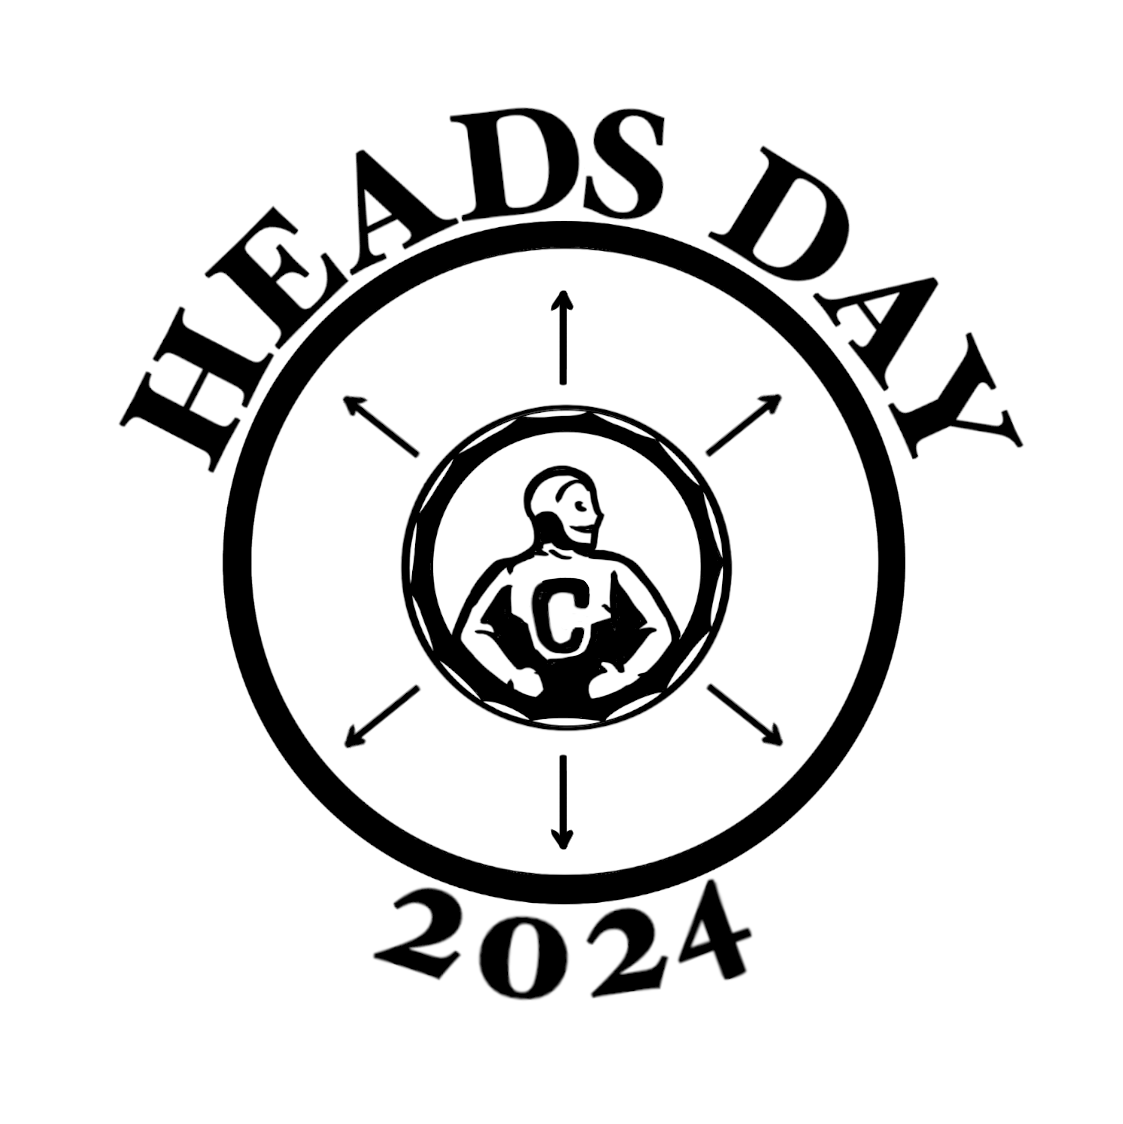
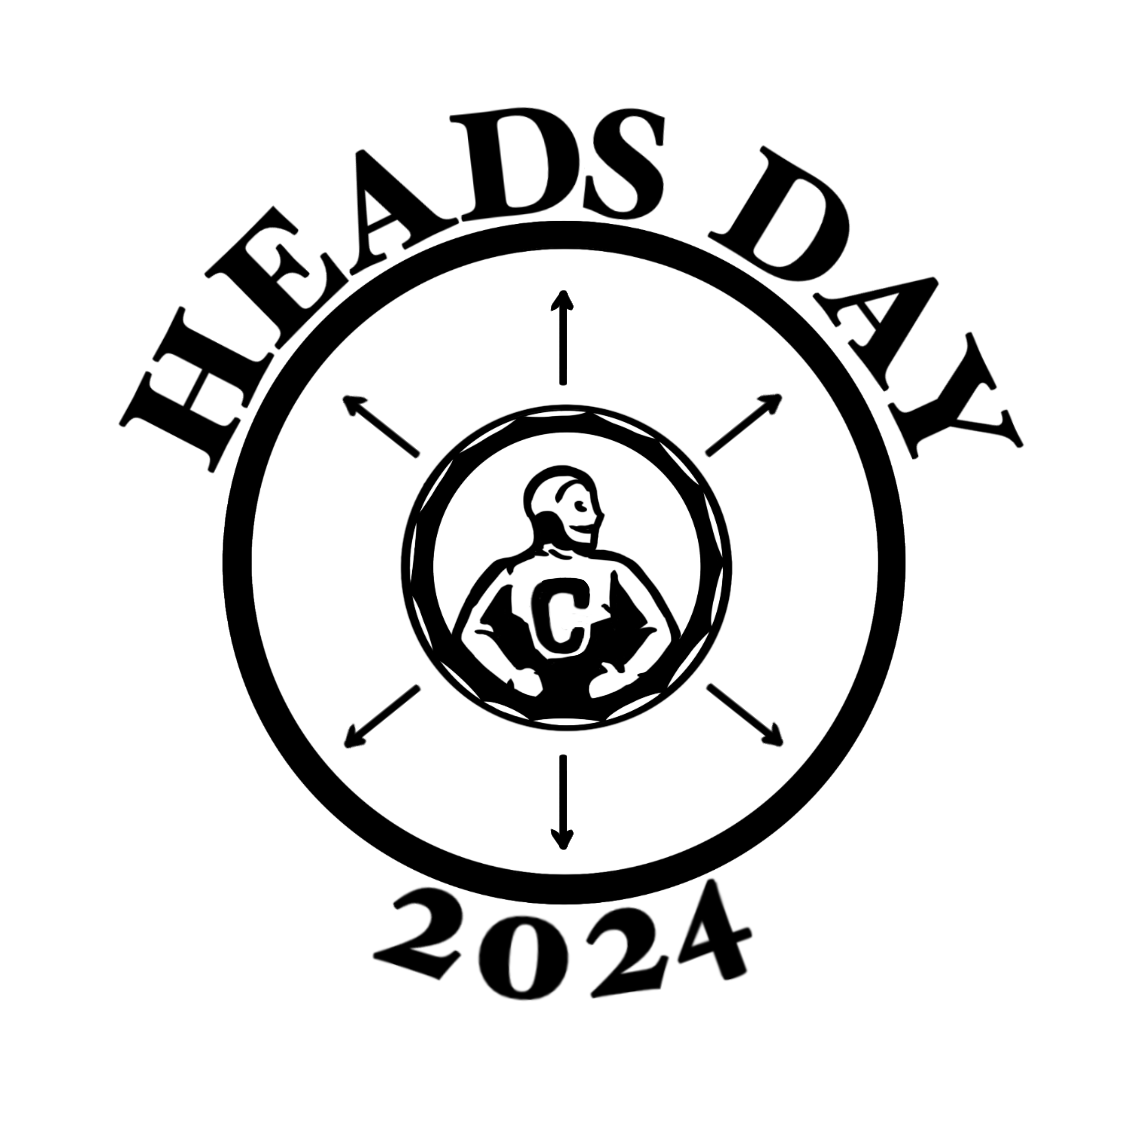
Reports (#124)
* Finished programmable reports

* fixed lint issue

* added link to reports

* Added qr code logo

diff --git a/engfrosh_site/management/templates/reports.html b/engfrosh_site/management/templates/reports.html
@@ -1,0 +1,91 @@
+{% extends "base_manage_subpage.html" %}
+{% load static %}
+{% block page_title %}
+    Programmable Reports
+{% endblock page_title %}
+{% block top_title %}
+    Programmable Reports
+{% endblock top_title %}
+{% block active %}
+    <div class="text-white">
+    <table id="table">
+        {% if data is None %}
+            <tr>
+                <td class="px-2">Target</td>
+                <td class="px-2">Value</td>
+                <td class="px-2">Operator</td>
+                <td class="px-2"><button onclick="add()">Add</button></td>
+                <td class="px-2"><button onclick="send()">View HTML</button></td>
+            </tr>
+            <tr id="input">
+                <td class="px-2">
+                    <select id="target">
+                        {% for param in params %}
+                            <option value="{{ param }}">{{ param }}</option>
+                        {% endfor %}
+                    </select>
+                </td>
+                <td class="px-2">
+                    <input type="text" id="value">
+                </td>
+                <td class="px-2">
+                    <select id="operator">
+                        <option value="=">Equals</option>
+                        <option value="!=">Does Not Equal</option>
+                    </select>
+                </td>
+            </tr>
+            <form id="hiddenform" method="POST">
+                {% csrf_token %}
+                <input type="hidden" id="query" name="query">
+            </form>
+        {% else %}
+        <tr>
+            <form method="POST">
+                {% csrf_token %}
+                <input type="hidden" name="query" value="{{ query }}"></input>
+                <input type="submit" value="Download CSV"></input>
+            </form>
+            <td>
+                <p>Results found: {{ length }}</p>
+            </td>
+        </tr>
+        {% for d1 in data %}
+            <tr>
+                {% for d2 in d1 %}
+                    <td class="px-2">{{ d2 }}</td>
+                {% endfor %}
+            </tr>
+        {% endfor %}
+        {% endif %}
+    </table>
+    </div>
+    <script>
+        var query = {"format": "html", "query": new Array()};
+        function add(){
+            var target = document.getElementById("target").value;
+            var value = document.getElementById("value").value;
+            var operator = document.getElementById("operator").value;
+            var elem = {"target": target, "value": value, "operator": operator};
+            query.query.push(elem);
+            var table = document.getElementById("table");
+            var tr = document.createElement("tr");
+            var td1 = document.createElement("td");
+            td1.innerHTML = target;
+            tr.appendChild(td1);
+            var td2 = document.createElement("td");
+            td2.innerHTML = value;
+            tr.appendChild(td2);
+            var td3 = document.createElement("td");
+            td3.innerHTML = operator;
+            tr.appendChild(td3);
+            table.appendChild(tr);
+        }
+        function send(){
+            var form = document.getElementById("hiddenform");
+            var input = document.getElementById("query");
+            input.value = JSON.stringify(query);
+            form.submit();
+        }
+    </script>
+{% endblock active %}

diff --git a/engfrosh_site/management/templates/manage.html b/engfrosh_site/management/templates/manage.html
@@ -55,6 +55,8 @@
          class="bg-main dark:bg-main-night rounded-lg p-2">Create Announcement</a>
       <a href="{% url 'edit_event' id=0 %}"
          class="bg-main dark:bg-main-night rounded-lg p-2">Create Calendar Event</a>
+      <a href="{% url 'reports' %}"
+         class="bg-main dark:bg-main-night rounded-lg p-2">Reports</a>
       <a href="{% url 'export_teams' %}"
          class="bg-main dark:bg-main-night rounded-lg p-2">Export Teams</a>
       <a href="{% url 'bulk_add_prc' %}"

diff --git a/engfrosh_site/management/views.py b/engfrosh_site/management/views.py
@@ -112,6 +112,98 @@ def mailing_list(request: HttpRequest) -> HttpResponse:
 
 
 @staff_member_required(login_url='/accounts/login')
+def reports(request: HttpRequest) -> HttpResponse:
+    if request.method == "GET":
+        details = UserDetails.objects.all().first()
+        params = []
+        for key in dir(details):
+            if key.startswith("_"):
+                continue
+            params += ["details." + key]
+        for key in dir(details.user):
+            if key.startswith("_"):
+                continue
+            params += ["user." + key]
+        return render(request, "reports.html", {"params": params})
+    elif request.method == "POST":
+        req_dict = json.loads(request.POST.get("query"))
+        requirements = []
+        try:
+            dataformat = req_dict['format']
+            for query in req_dict['query']:
+                target = query['target']
+                value = query['value']
+                operator = query['operator']
+                requirements += [(target, value, operator)]
+        except KeyError:
+            return HttpResponseBadRequest("Key Error in Body")
+        users = UserDetails.objects.all()
+        data = []
+        for user in users:
+            met = True
+            for r in requirements:
+                d = r[0].split(".")
+                obj = d[0]
+                name = d[1]
+                if obj == "details":
+                    value = str(getattr(user, name))
+                    if callable(value):
+                        value = value()
+                elif obj == "user":
+                    value = str(getattr(user.user, name))
+                    if callable(value):
+                        value = value()
+                if r[2] == "=" and value.lower() != str(r[1]).lower():
+                    met = False
+                    break
+                elif r[2] == "!=" and value.lower() == str(r[1]).lower():
+                    met = False
+                    break
+            if met:
+                data += [user]
+        output = []
+        first = True
+        for user in data:
+            cur = []
+            if first:
+                for key in user.__dict__.keys():
+                    if key.startswith("_"):
+                        continue
+                    cur += ["details." + key]
+                cur += ["details.role"]
+                for key in user.user.__dict__.keys():
+                    if key.startswith("_"):
+                        continue
+                    cur += ["user." + key]
+                output += [cur]
+            cur = []
+            first = False
+            for key, value in user.__dict__.items():
+                if key.startswith("_"):
+                    continue
+                cur += [str(value)]
+            cur += [user.role]
+            for key, value in user.user.__dict__.items():
+                if key.startswith("_"):
+                    continue
+                cur += [str(value)]
+            output += [cur]
+        if dataformat == "csv":
+            line = ""
+            for o1 in output:
+                for o2 in o1:
+                    line += o2 + ","
+                line += "\n"
+            response = HttpResponse(line, content_type="text/csv")
+            response['Content-Disposition'] = 'attachment; filename="report.csv"'
+            return response
+        elif dataformat == "html":
+            req_dict["format"] = "csv"
+            return render(request, "reports.html", {"data": output, "length": len(output)-1,
+                                                    "query": json.dumps(req_dict)})
+
+
+@staff_member_required(login_url='/accounts/login')
 def shift_manage(request: HttpRequest, id: int) -> HttpResponse:
     if request.method == "GET":
         if id == 0:

diff --git a/engfrosh_site/management/urls.py b/engfrosh_site/management/urls.py
@@ -32,6 +32,7 @@ urlpatterns = [
     path('mailing_list', views.mailing_list, name="mailing_list"),
     path('shift_export', views.shift_export, name="shift_export"),
     path('shift_manage/<int:id>', views.shift_manage, name="shift_manage"),
+    path('reports', views.reports, name="reports")
     path('export_teams', views.export_teams, name="export_teams"),
     path('prc', views.bulk_add_prc, name="bulk_add_prc")
     path('discord_rename', views.discord_rename, name="discord_rename"),
